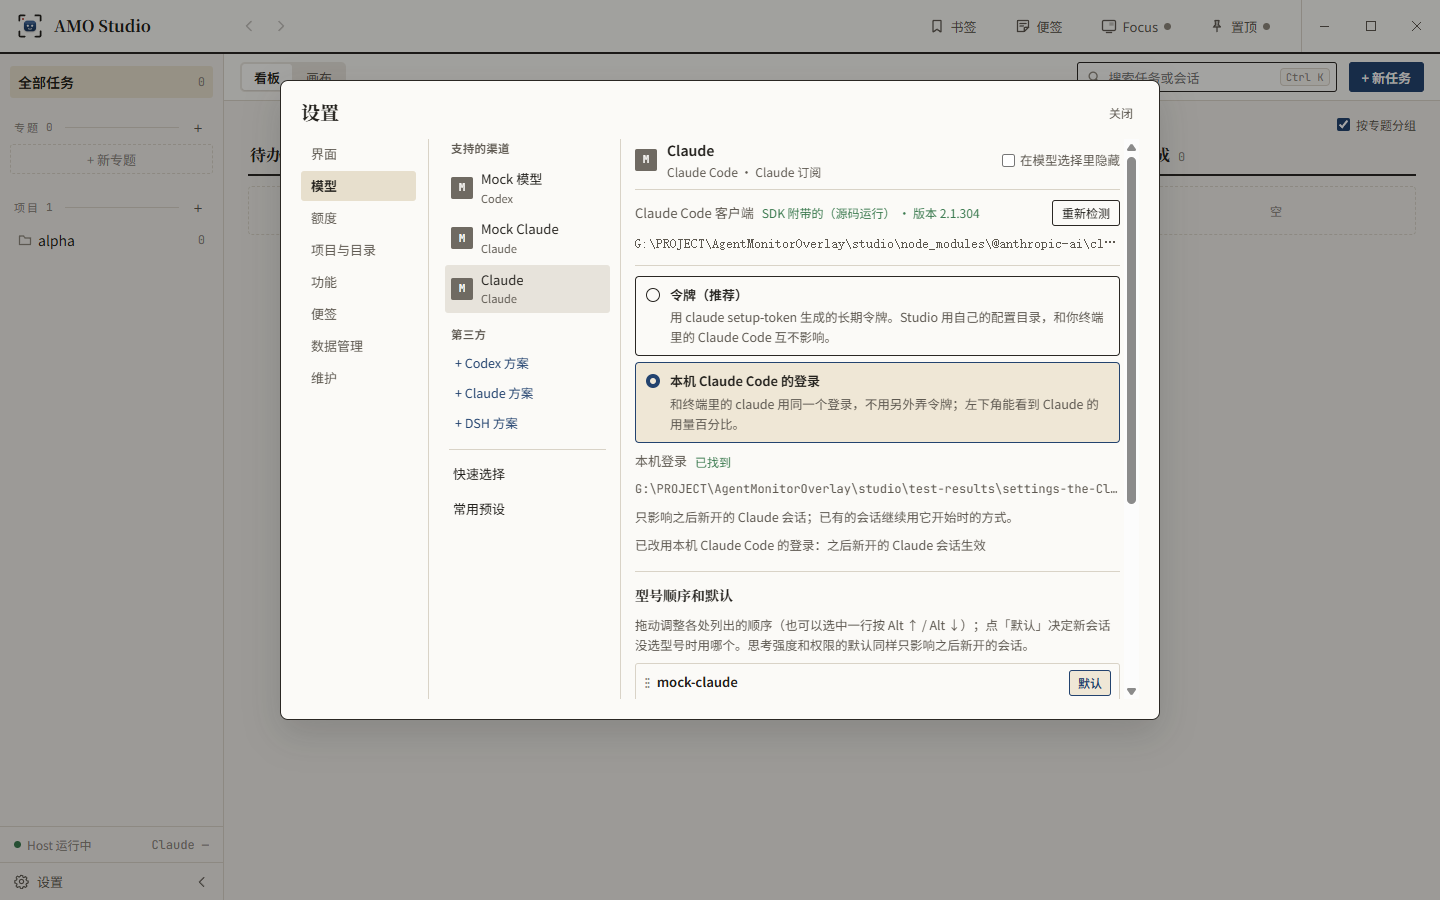
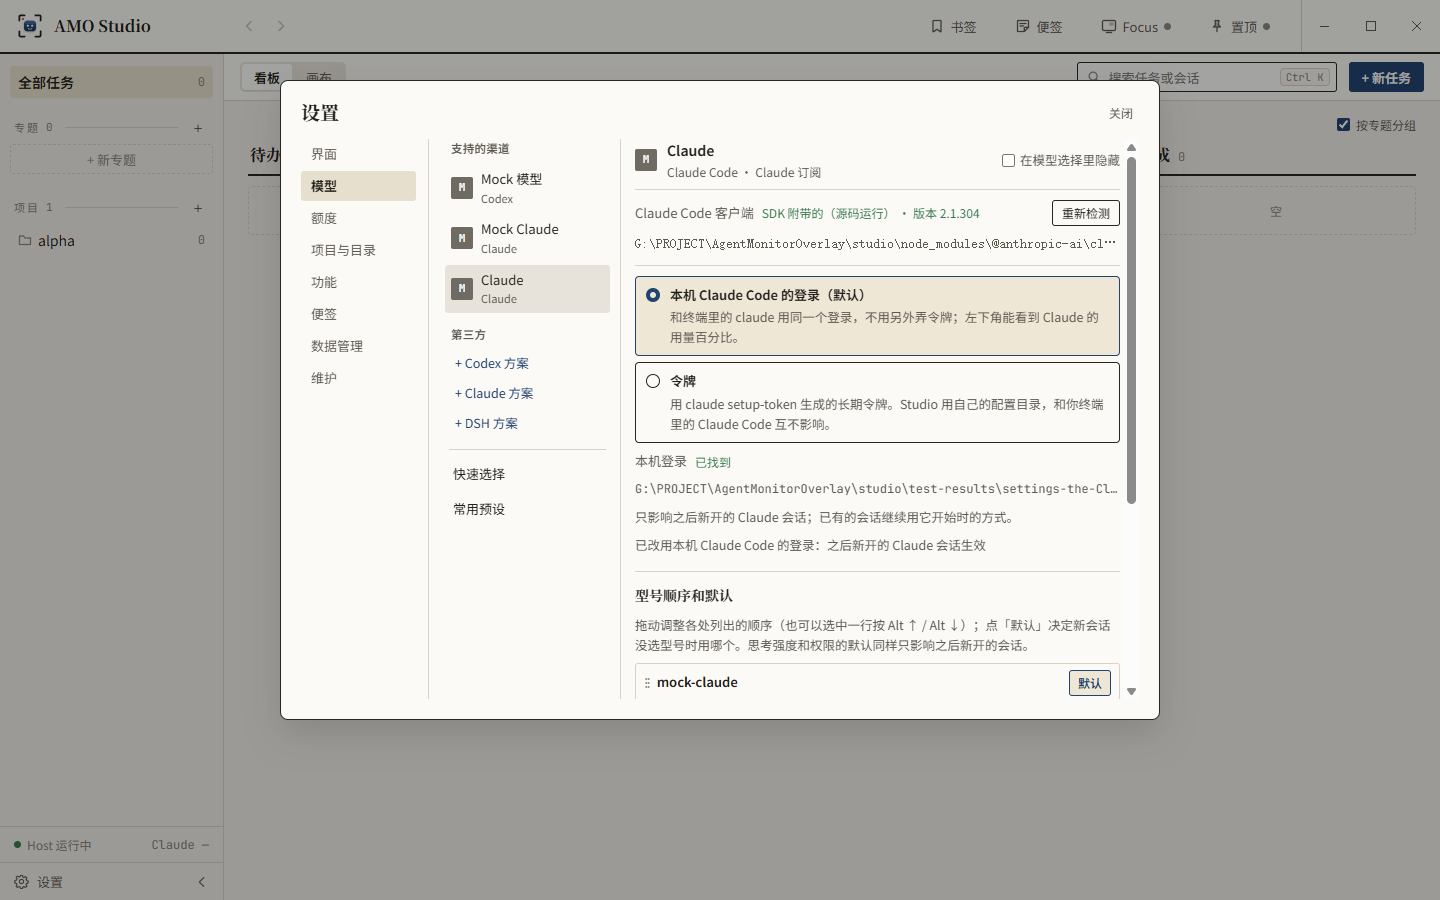
feat(studio): the Claude subscription signs in with the local Claude Code login by default
A new install (nothing chosen in 设置 → 模型) uses the person's own Claude Code login instead of a setup-token;
a choice already saved stays. Test runs keep the token default so they never touch the real ~/.claude.
The first-run check reports the local login instead of a missing token, and /login and /logout say where
each way is managed.

Changed region(s): [[0.4375, 0.28, 0.7812, 0.4978]]

diff --git a/studio/packages/app/src/setup.ts b/studio/packages/app/src/setup.ts
@@ -9,7 +9,7 @@ export interface SetupChecks {
   codex: { ok: boolean; detail: string };
   /** The Claude Code the Claude channels run on: the person's own install (the portable build ships none). */
   claude: { ok: boolean; detail: string };
-  credentials: Array<{ label: string; present: boolean }>;
+  credentials: Array<{ label: string; present: boolean; missing?: string }>;
   /** Tests do not look at this machine's tools and credentials. */
   skipped: boolean;
 }
@@ -32,8 +32,11 @@ export async function setupChecks(testMode: boolean): Promise<SetupChecks> {
   const reader = new host.WindowsCredentialReader();
   const seen = new Set<string>();
   const credentials: SetupChecks["credentials"] = [];
+  // The Claude subscription signs in with the person's own Claude Code by default (设置 → 模型), not a saved token.
+  const signedIn = host.localClaudeSignedIn(host.localClaudeHome());
+  if (signedIn !== null) credentials.push({ label: "Claude 订阅（本机 Claude Code 的登录）", present: signedIn, missing: "没有找到：在终端运行 claude 登录一次" });
   for (const p of host.BUILTIN_PROFILES) {
-    if (!p.credentialId || seen.has(p.credentialId)) continue;
+    if (!p.credentialId || seen.has(p.credentialId) || p.credentialId === host.CLAUDE_SUBSCRIPTION_CREDENTIAL) continue;
     seen.add(p.credentialId);
     let present = false;
     try {
@@ -74,7 +77,7 @@ window.amo.setup.info().then((info) => {
   else {
     items.push('<li class="' + (info.checks.codex.ok ? 'ok' : 'bad') + '">Codex：' + info.checks.codex.detail + '</li>');
     items.push('<li class="' + (info.checks.claude.ok ? 'ok' : 'bad') + '">Claude Code：' + info.checks.claude.detail + '</li>');
-    for (const c of info.checks.credentials) items.push('<li class="' + (c.present ? 'ok' : 'bad') + '">' + c.label + '：' + (c.present ? '已找到' : '没有找到') + '</li>');
+    for (const c of info.checks.credentials) items.push('<li class="' + (c.present ? 'ok' : 'bad') + '">' + c.label + '：' + (c.present ? '已找到' : (c.missing || '没有找到')) + '</li>');
   }
   $("checks").innerHTML = items.join("");
 });

diff --git a/studio/packages/host/src/runtime/claude/claude-login.ts b/studio/packages/host/src/runtime/claude/claude-login.ts
@@ -4,16 +4,19 @@ import { join } from "node:path";
 import type { ClaudeLogin } from "@amo-studio/protocol";
 import type { Store } from "../../store/store.js";
 
-// How the Claude subscription profile signs in (设置 → 模型). "token": the long-lived token from `claude setup-token`,
-// with Studio's own config dir (the default, nothing of ~/.claude is read). "local": the person's own Claude Code login
-// and config dir, like the CLI in a terminal; chosen by the person after a warning. Each session keeps the way it was
-// started (its transcript lives in that config dir), so switching only affects sessions started afterwards.
+// How the Claude subscription profile signs in (设置 → 模型). "local" (the default since 2026-10-24): the person's own
+// Claude Code login and config dir, like the CLI in a terminal. "token": the long-lived token from `claude setup-token`,
+// with Studio's own config dir (nothing of ~/.claude is read). Test runs (AMO_STUDIO_TEST=1) default to "token", so
+// they never touch the real ~/.claude. Each session keeps the way it was started (its transcript lives in that config
+// dir), so switching only affects sessions started afterwards.
 
 const KEY = "settings:claude-login";
 const sessionKey = (sessionId: string) => `claude.login:${sessionId}`;
 
-export function readClaudeLogin(store: Store): ClaudeLogin {
-  return store.getKv(KEY)?.value === "local" ? "local" : "token";
+export function readClaudeLogin(store: Store, env: NodeJS.ProcessEnv = process.env): ClaudeLogin {
+  const saved = store.getKv(KEY)?.value;
+  if (saved === "local" || saved === "token") return saved;
+  return env.AMO_STUDIO_TEST === "1" ? "token" : "local";
 }
 
 export function writeClaudeLogin(store: Store, login: ClaudeLogin): void {

diff --git a/studio/packages/host/src/runtime/claude/claude-login.test.ts b/studio/packages/host/src/runtime/claude/claude-login.test.ts
@@ -1,0 +1,31 @@
+import { mkdtempSync } from "node:fs";
+import { tmpdir } from "node:os";
+import { join } from "node:path";
+import { afterEach, beforeEach, describe, expect, it } from "vitest";
+import { removeTempDir } from "@amo-studio/testkit";
+import { Store } from "../../store/store.js";
+import { readClaudeLogin, writeClaudeLogin } from "./claude-login.js";
+
+let root: string;
+let store: Store;
+
+beforeEach(() => {
+  root = mkdtempSync(join(tmpdir(), "amo-studio-test-login-"));
+  store = new Store(join(root, "studio.db"));
+});
+
+afterEach(() => {
+  store.close();
+  removeTempDir(root);
+});
+
+describe("how the Claude subscription signs in", () => {
+  it("is the local Claude Code login until the person picks otherwise; test runs default to the token", () => {
+    expect(readClaudeLogin(store, {})).toBe("local");
+    expect(readClaudeLogin(store, { AMO_STUDIO_TEST: "1" })).toBe("token");
+    writeClaudeLogin(store, "token");
+    expect(readClaudeLogin(store, {})).toBe("token");
+    writeClaudeLogin(store, "local");
+    expect(readClaudeLogin(store, { AMO_STUDIO_TEST: "1" })).toBe("local");
+  });
+});

diff --git a/studio/packages/ui/src/settings/ModelsPage.tsx b/studio/packages/ui/src/settings/ModelsPage.tsx
@@ -133,8 +133,8 @@ export function ModelsPage({ link, settings }: { link: HostLink; settings: Studi
 }
 
 const LOGINS: Array<{ id: ClaudeLogin; label: string; hint: string }> = [
-  { id: "token", label: "令牌（推荐）", hint: "用 claude setup-token 生成的长期令牌。Studio 用自己的配置目录，和你终端里的 Claude Code 互不影响。" },
-  { id: "local", label: "本机 Claude Code 的登录", hint: "和终端里的 claude 用同一个登录，不用另外弄令牌；左下角能看到 Claude 的用量百分比。" },
+  { id: "local", label: "本机 Claude Code 的登录（默认）", hint: "和终端里的 claude 用同一个登录，不用另外弄令牌；左下角能看到 Claude 的用量百分比。" },
+  { id: "token", label: "令牌", hint: "用 claude setup-token 生成的长期令牌。Studio 用自己的配置目录，和你终端里的 Claude Code 互不影响。" },
 ];
 
 function ClaudeLoginSection({ link, settings, credential, onCredentials }: { link: HostLink; settings: StudioSettings; credential: CredentialStatus; onCredentials(list: CredentialStatus[]): void }) {

diff --git a/studio/packages/host/src/runtime/claude/commands.ts b/studio/packages/host/src/runtime/claude/commands.ts
@@ -17,8 +17,8 @@ export const BLOCKED_COMMANDS: Record<string, string> = {
   resume: "Studio 里不能切换到别的 Claude 会话。",
   exit: "Studio 里不需要 /exit。",
   quit: "Studio 里不需要 /quit。",
-  login: "请在 设置 → 模型凭据 里保存令牌。",
-  logout: "请在 设置 → 模型凭据 里删除令牌。",
+  login: "Studio 里不能用 /login：本机登录请在终端运行 claude 登录；用令牌请到 设置 → 模型 保存。",
+  logout: "Studio 里不能用 /logout：本机登录请在终端里退出；用令牌请到 设置 → 模型 删除。",
 };
 
 /**

diff --git a/studio/packages/host/src/runtime/claude/claude-runtime.integration.test.ts b/studio/packages/host/src/runtime/claude/claude-runtime.integration.test.ts
@@ -219,6 +219,7 @@ describe("ClaudeRuntime", () => {
     });
     try {
       // With the token way and no token, the subscription cannot start.
+      writeClaudeLogin(store, "token");
       await expect(local.startSession({ taskId: task.id, topicId: null, profileId: "claude-sub", workspace, text: "x" })).rejects.toThrow(/claude setup-token/);
       // The token cannot read the account's quota; Studio says so instead of showing numbers it does not have.
       expect((await local.usage("claude-sub", true))?.note).toMatch(/查不到用量百分比/);

diff --git a/studio/packages/host/src/index.ts b/studio/packages/host/src/index.ts
@@ -6,6 +6,7 @@ export * from "./runtime/credentials.js";
 export * from "./runtime/profiles.js";
 export * from "./runtime/codex/command.js";
 export { claudeCodeVersion, findClaudeCode } from "./runtime/claude/executable.js";
+export { localClaudeHome, localClaudeSignedIn } from "./runtime/claude/claude-login.js";
 export * from "./runtime/codex/rpc-client.js";
 export * from "./runtime/codex/server-manager.js";
 export * from "./runtime/codex/codex-runtime.js";

diff --git a/studio/README.md b/studio/README.md
@@ -30,7 +30,7 @@ Studio 的首次启动：
 
 开发时在 `studio` 下 `npm start`（数据在 `studio/.data`）；`npm run host:stop` 停止后台的 Host。
 
-换一台机器用开发版：装好 Node（24 LTS）和 Git，`git clone`（`master`）后双击 `studio/start-studio.cmd`。它会在依赖缺失或 `package-lock.json` 变了时 `npm ci`，再构建并打开 Studio；`start-studio.cmd -Install` 强制重装依赖，`start-studio.cmd -Stop` 停掉 Host。Codex 模型还要 `npm i -g @openai/codex`；Claude 订阅令牌和各通道的 Key 在 设置 → 模型 里填。
+换一台机器用开发版：装好 Node（24 LTS）和 Git，`git clone`（`master`）后双击 `studio/start-studio.cmd`。它会在依赖缺失或 `package-lock.json` 变了时 `npm ci`，再构建并打开 Studio；`start-studio.cmd -Install` 强制重装依赖，`start-studio.cmd -Stop` 停掉 Host。Codex 模型还要 `npm i -g @openai/codex`；Claude 订阅默认用本机 Claude Code 的登录（先在终端运行 `claude` 登录一次）；各通道的 Key 在 设置 → 模型 里填。
 
 ## 随 Studio 一起的两个小程序
 
@@ -94,7 +94,7 @@ studio\amo-review.cmd G:\PROJECT\game --mode file --file src\Drop.cs --line 24 -
 - **换电脑**：把整个 `AMO Studio` 文件夹拷过去即可；新机器上要有 codex 和对应的凭据。
 - **Host 是什么？** 后台常驻的服务，管会话和数据；关掉窗口它还在，会话不会断。开发时用 `npm run host:stop` 停掉。
 - **密钥放哪？** Windows 凭据管理器。Studio 只读取，并且只传给模型进程，不写日志、不出现在命令行；agent 运行的命令读不到这些密钥。
-- **GPT 订阅** 用你本机 Codex 的登录和默认模型，不用另外设置。**Claude 订阅** 要一个长期令牌：在终端运行 `claude setup-token`，登录后把打印出的令牌粘贴到 设置 → 模型凭据。这是 Studio 唯一会写入凭据管理器的一项，你可以随时在那里删除。
+- **GPT 订阅** 用你本机 Codex 的登录和默认模型，不用另外设置。**Claude 订阅** 默认用你本机 Claude Code 的登录：在终端运行 `claude` 登录一次即可，Studio 的 Claude 会话和终端共用账号与额度。也可以在 设置 → 模型 改用长期令牌（`claude setup-token` 生成，粘贴后存进凭据管理器，是 Studio 唯一会写入那里的一项，可以随时删除）。
 - **型号、思考强度、权限**：新建任务或会话时选；会话里点输入框左下角的「型号 · 强度 · 权限」随时切换（Claude 立即生效，Codex 下一轮生效）。常用组合在 设置 → 常用预设 里保存，之后一键切换。
 - **命令权限**：Codex 会话里，agent 要运行的命令（除了少数已知安全的只读命令）都会先弹批准卡片；命令不在 Windows 沙箱里运行（你的 Codex 配置用的 unelevated 沙箱会让命令全部失败）。
 
